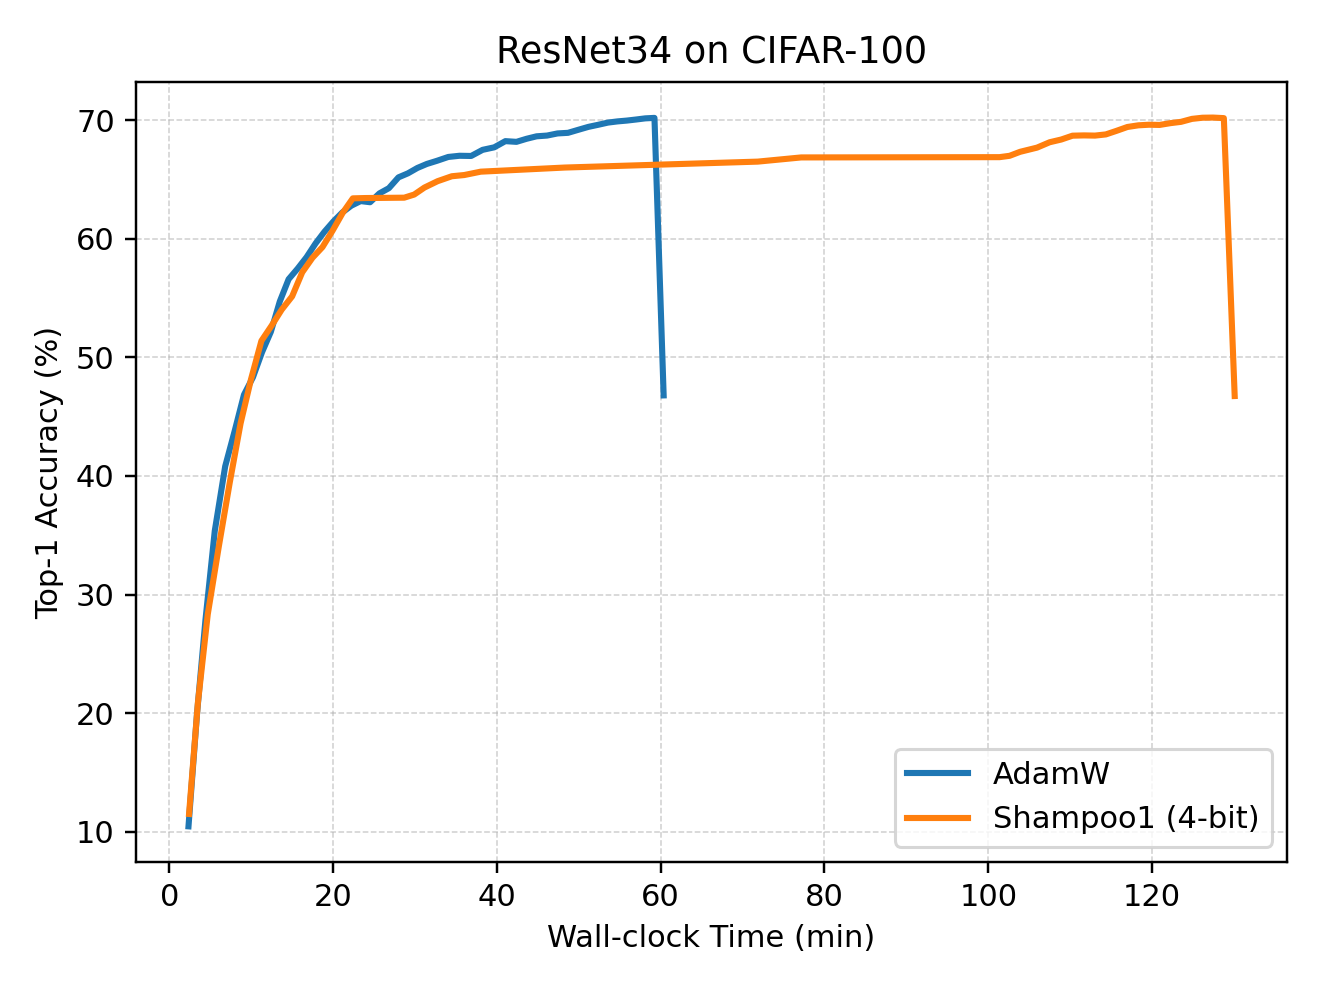
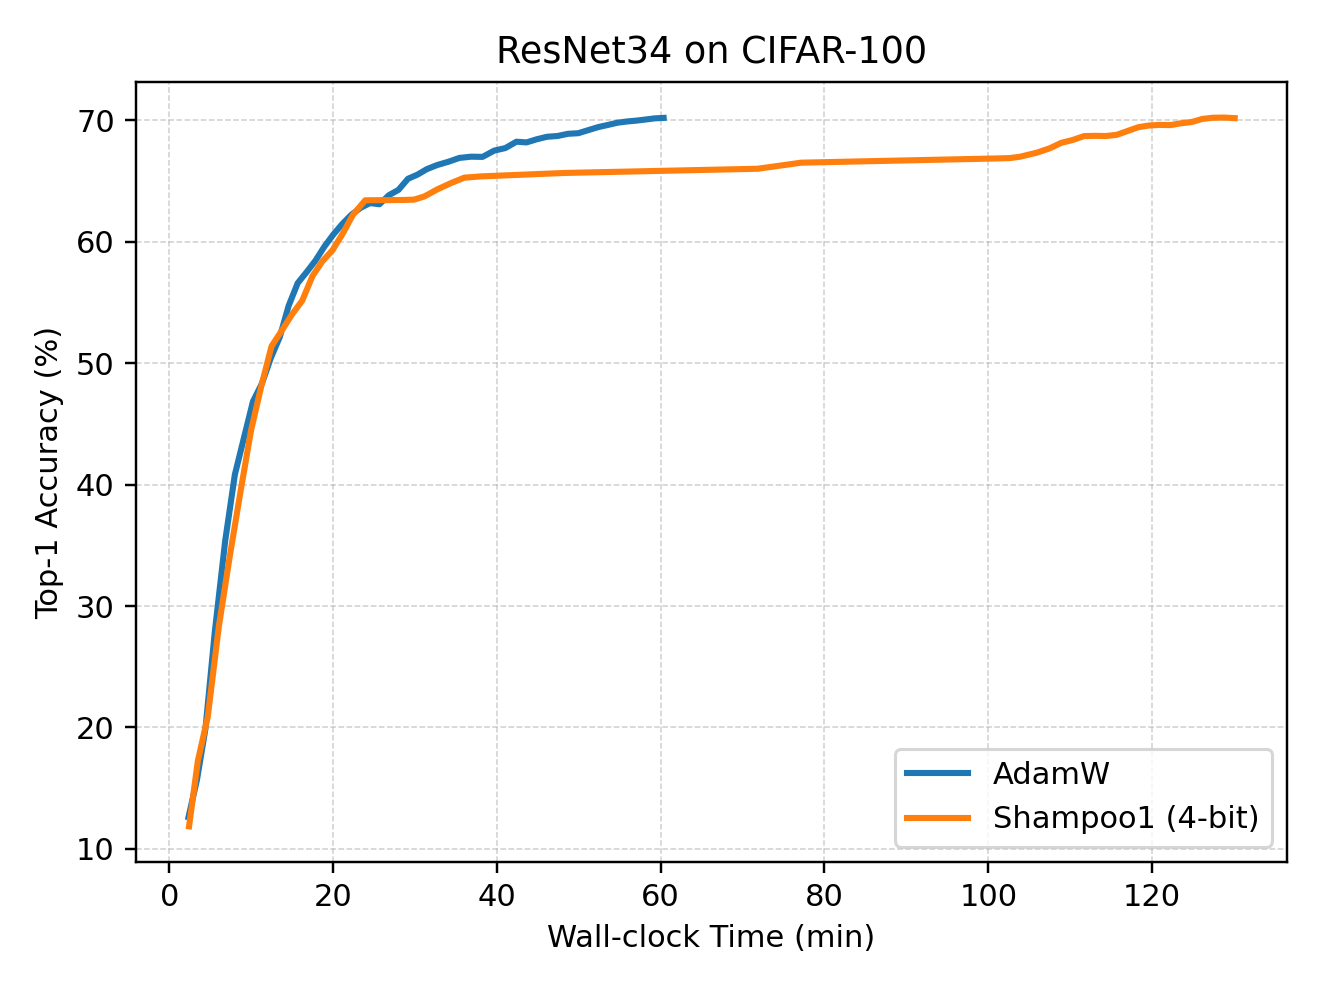
plots cleared

diff --git a/plot_metrics.py b/plot_metrics.py
@@ -86,13 +86,17 @@ def _load_metrics(path: Path) -> List[Dict[str, str]]:
 
 
 def _moving_average(values: np.ndarray, window: int) -> np.ndarray:
-    if window <= 1:
+    values = np.asarray(values, dtype=np.float64)
+    n = len(values)
+    if window <= 1 or n == 0:
         return values
-    if window > len(values):
-        window = len(values)
-    kernel = np.ones(window, dtype=np.float64) / window
-    # use 'same' to keep array length consistent with original
-    return np.convolve(values, kernel, mode="same")
+    w = min(window, n)
+
+    c = np.cumsum(np.insert(values, 0, 0.0))
+    tail = (c[w:] - c[:-w]) / w                 # length n - w + 1
+    head = (c[1:w] - c[0]) / np.arange(1, w)    # lengths 1..w-1
+    return np.concatenate([head, tail])
+
 
 
 def _prepare_series(
